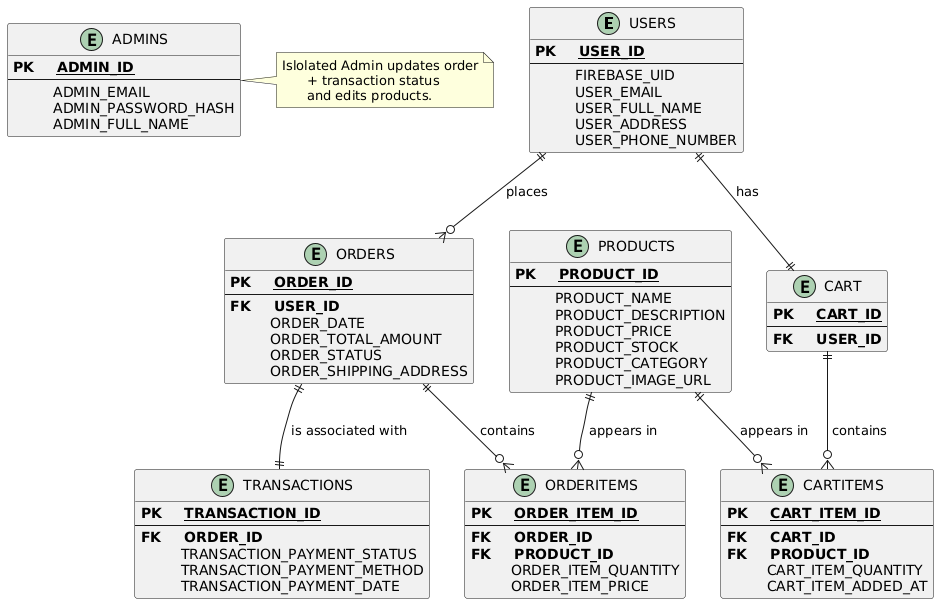
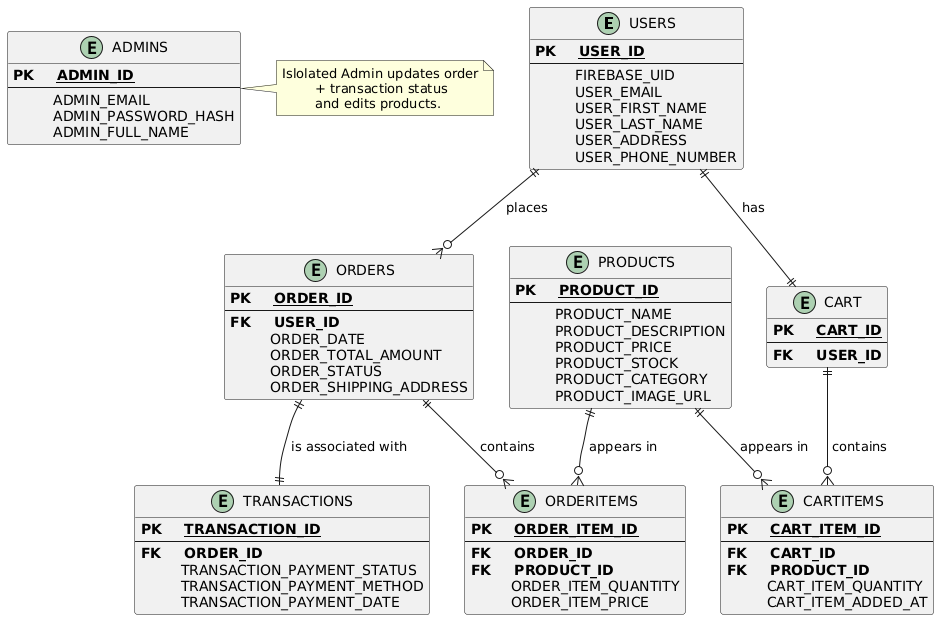
CHORE: updated ERD to reflect most current DB structure

diff --git a/README.md b/README.md
@@ -23,7 +23,8 @@ Entity Relationship Diagram:
     ----
     attribute(FIREBASE_UID)
     attribute(USER_EMAIL)
-    attribute(USER_FULL_NAME)
+    attribute(USER_FIRST_NAME)
+    attribute(USER_LAST_NAME)
     attribute(USER_ADDRESS)
     attribute(USER_PHONE_NUMBER)
     }
